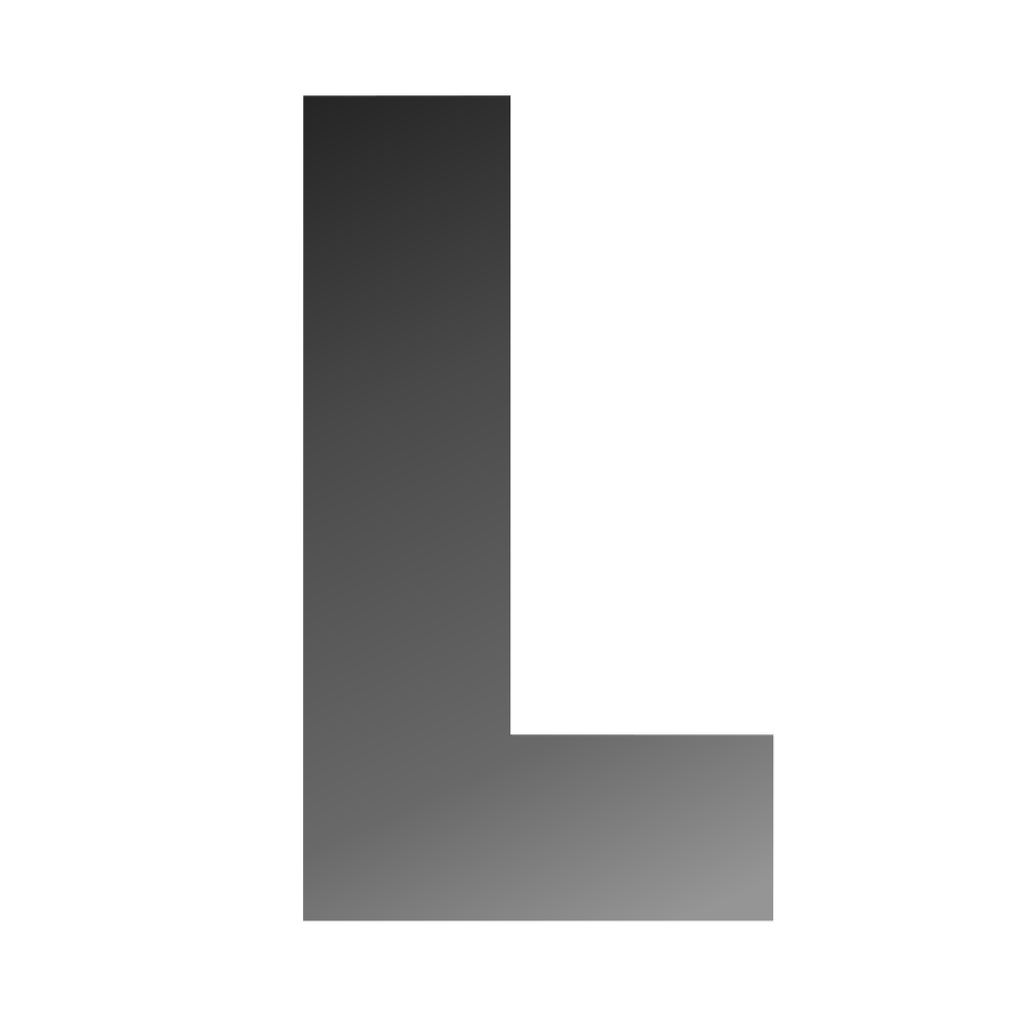
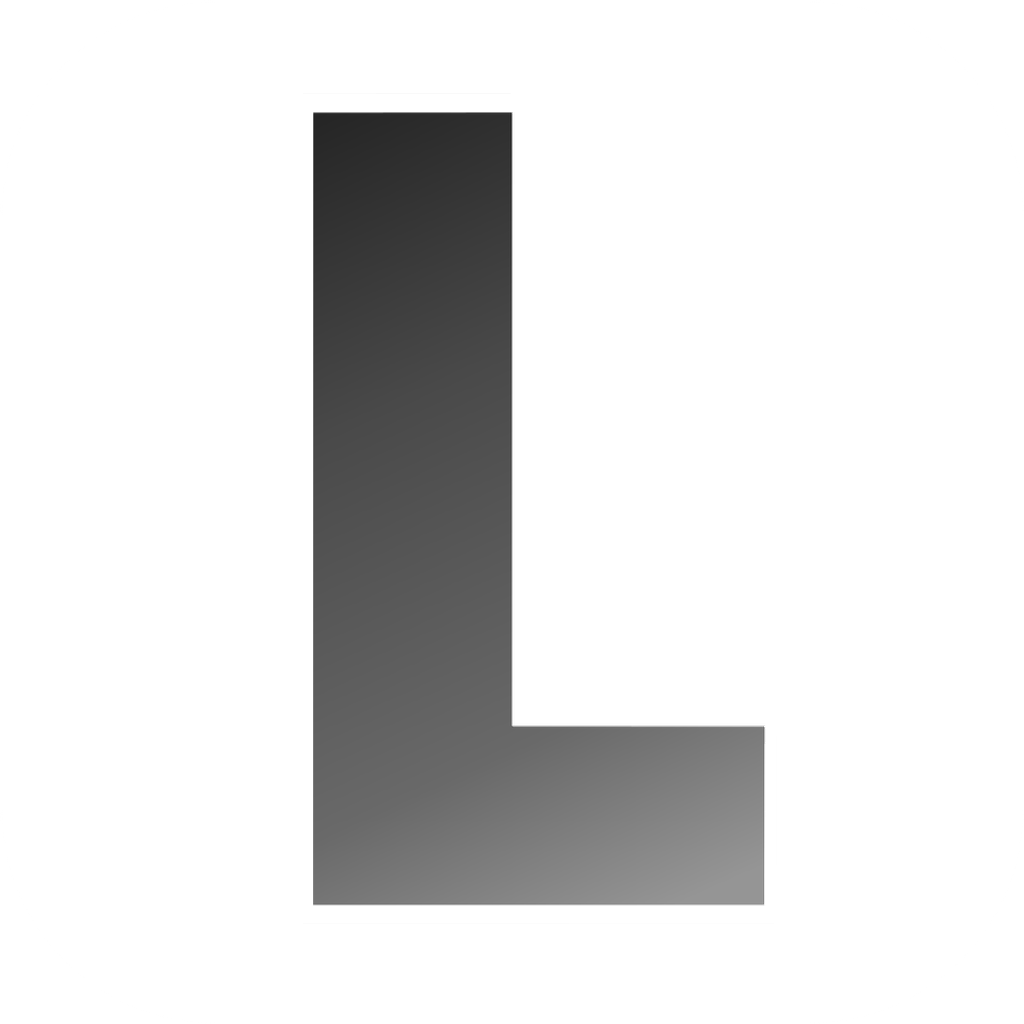
Update images

Changed region(s): [[0.2812, 0.0938, 0.7812, 0.9062]]

diff --git a/docs/NATIVE.md b/docs/NATIVE.md
@@ -29,7 +29,7 @@
 - テーマ定義: `apps/native/src/styles/theme.ts` に定数と型定義を集約
 - スタイリング: NativeWind v4 (Tailwind CSS) を使用。`apps/native/global.css` を定義し、`apps/native/src/index.ts` でインポートして適用。`babel.config.js` で `{ jsxImportSource: "nativewind" }` を設定。
 - Metro 解決: `apps/native/metro.config.js` で monorepo の `node_modules` 探索順を固定し、`react` / `react-native` を `apps/native` 側へ解決して Expo Go 起動時の React Native 二重バンドルを防止する
-- アプリアイコン/スプラッシュ画像は `apps/native/assets`（`icon.png` / `adaptive-icon.png` / `splash-icon.png`）を正本とし、必要に応じて `ios/LightlistDev/Images.xcassets` と `android/app/src/main/res` の生成済み画像を同じロゴで更新する。現行アプリアイコン（`icon.png` / `adaptive-icon.png`）は既存デザインを踏襲し、ロゴレイヤーのみを従来比 `97%` に縮小して上下余白を微増した配置を採用する
+- アプリアイコン/スプラッシュ画像は `apps/native/assets`（`icon.png` / `adaptive-icon.png` / `splash-icon.png`）を正本とし、必要に応じて `ios/LightlistDev/Images.xcassets` と `android/app/src/main/res` の生成済み画像を同じロゴで更新する。現行アプリアイコン（`icon.png` / `adaptive-icon.png`）は既存デザインを踏襲し、ロゴレイヤーのみを従来比 `96%` に縮小して上下余白を微増した配置を採用する
 - 画面: `apps/native/src/screens` に `AuthScreen` / `AppScreen` / `SettingsScreen` / `ShareCodeScreen` / `PasswordResetScreen` を配置。各画面は自己完結型で、状態管理・ビジネスロジック・SDK呼び出しを内包する
 - UIコンポーネント: `apps/native/src/components/ui` に `Dialog.tsx`（作成/編集用ダイアログ）、`Carousel.tsx`（リスト表示）、`AppIcon.tsx`（SVGアイコン）を集約
 - appコンポーネント: `apps/native/src/components/app/TaskListCard.tsx` を `AppScreen` / `ShareCodeScreen` で共通利用し、タスク追加/編集/並び替え/完了/完了削除の操作UIを集約。Web版に合わせ、タスクの日付をテキスト上部に表示し、エラー表示用変数名などの内部ロジックも共通化している（ヘッダーやリスト選択は画面側で管理）。`apps/native/src/components/app/DrawerPanel.tsx` はタスクリスト一覧と作成・参加ダイアログを集約

diff --git a/docs/PWA.md b/docs/PWA.md
@@ -29,7 +29,8 @@
 
 - `sw.js` はインストール条件を満たすための最小実装で、オフライン対応やキャッシュ戦略は含まない
 - PWA アイコンは `apps/web/public/icons/*.png` を使用し、ブランドロゴのSVG表示は `apps/web/public/brand/logo.svg` を UI 用に分離している
-- `apps/web/public/icons/*.png` のブランドロゴは、角丸白背景の中央付近に縮小して配置し、上下の余白を確保しつつ視覚上の重心を中央に寄せたレイアウトを採用する（現行アセットはロゴレイヤーのみを従来比 `97%` に縮小し、上下余白を微増した配置を反映）
+- `apps/web/public/icons/*.png` は `apps/native/assets/icon.png` を正本として各サイズ（512/192/180）へリサイズして同期し、角丸白背景上のロゴを既存デザイン準拠で表示する
+- `apps/web/public/icons/*.png` のブランドロゴは、角丸白背景の中央付近に縮小して配置し、上下の余白を確保しつつ視覚上の重心を中央に寄せたレイアウトを採用する（現行アセットはロゴレイヤーのみを従来比 `96%` に縮小し、上下余白を微増した配置を反映）
 
 ## 起動時ローディング対策
 
